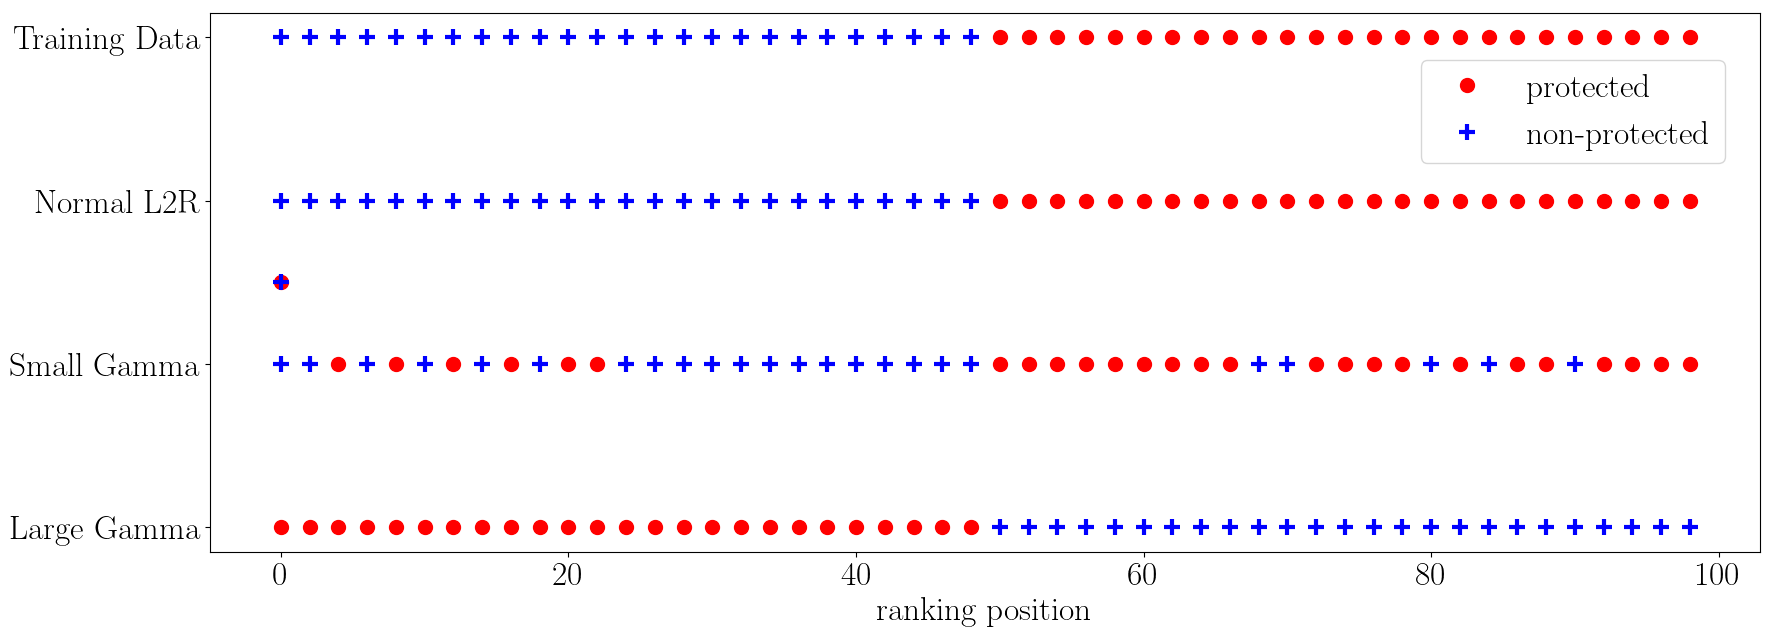
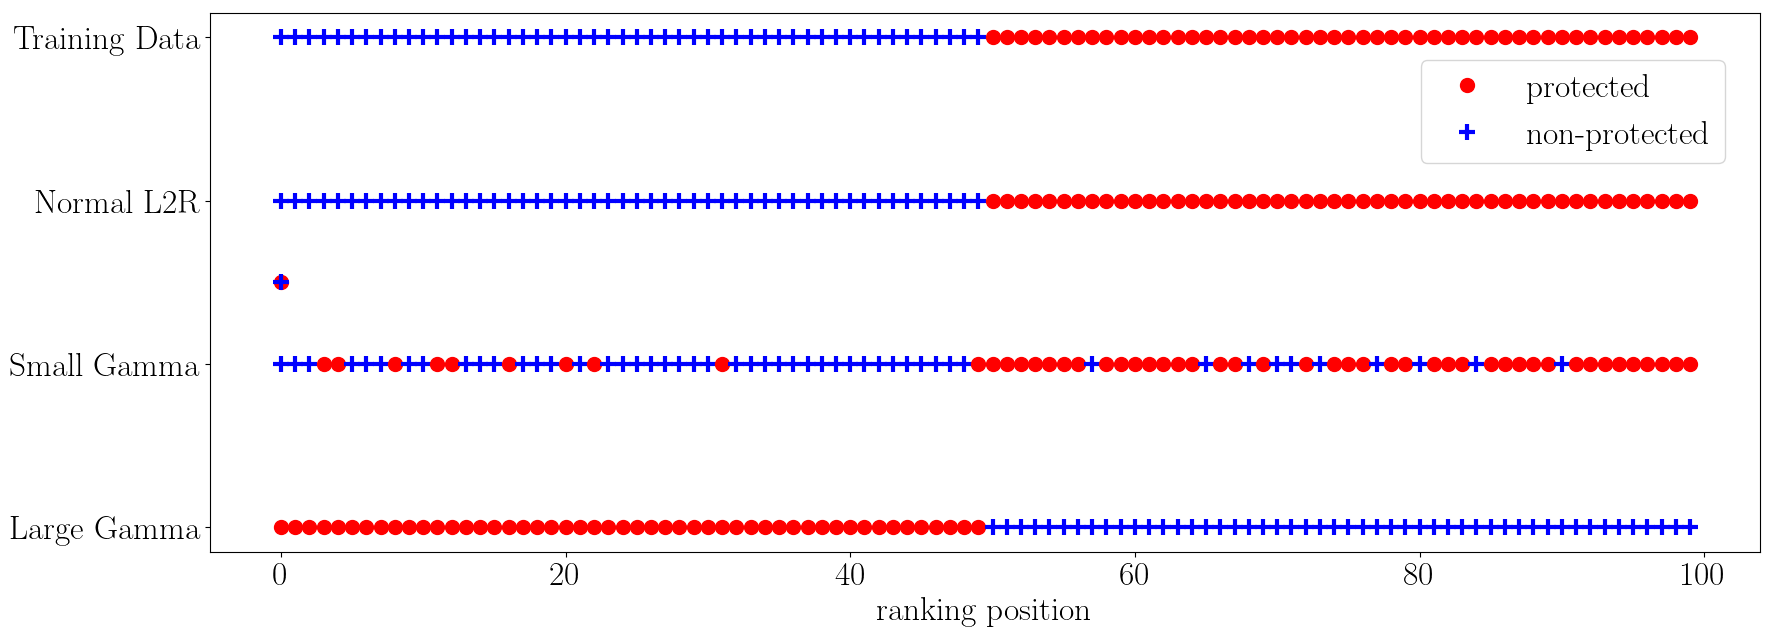
plots for synthetic datasets

diff --git a/src/visualization/run_synthetic_visualization.py b/src/visualization/run_synthetic_visualization.py
@@ -31,4 +31,10 @@ input_file3 = '../../octave-src/sample/synthetic_score_gender/top_male_bottom_fe
 input_file4 = '../../octave-src/sample/synthetic_score_gender/top_male_bottom_female/sample_test_data_scoreAndGender_separated_GAMMA_LARGE.txt.pred'
 output_file = '../../plots/synthetic/separated/top_male_bottom_female/result_plots/uniform_distribution/uniform_male_top_rankings_group_property_only.png'
 
-pltres.plot_rankings(input_file1, input_file2, input_file3, input_file4, output_file, 100, 2)
+input_file1 = '../../octave-src/sample/synthetic_score_gender/distribution_based/sample_train_data_scoreAndGender_separated.txt'
+input_file2 = '../../octave-src/sample/synthetic_score_gender/distribution_based/sample_test_data_scoreAndGender_separated_GAMMA_ZERO.txt.pred'
+input_file3 = '../../octave-src/sample/synthetic_score_gender/distribution_based/sample_test_data_scoreAndGender_separated_GAMMA_MEDIUM.txt.pred'
+input_file4 = '../../octave-src/sample/synthetic_score_gender/distribution_based/sample_test_data_scoreAndGender_separated_GAMMA_LARGE.txt.pred'
+output_file = '../../plots/synthetic/separated/top_male_bottom_female/result_plots/uniform_distribution/uniform_male_top_rankings_group_property_only.png'
+
+pltres.plot_rankings(input_file1, input_file2, input_file3, input_file4, output_file, 100, 1)

diff --git a/src/visualization/plot_rankings_only_protection_status.py b/src/visualization/plot_rankings_only_protection_status.py
@@ -23,7 +23,7 @@ def plot_rankings(input_file1, input_file2, input_file3, input_file4, output_fil
 
     f, ax = plt.subplots(figsize=(20, 7))
 
-    # Generate dummy info for plot handles "h"
+    # Generate dummy info for plot_ChileDataset handles "h"
     red_circle, = plt.plot(0, 1.75, 'ro', ms=10, label="protected")
     blue_plus, = plt.plot(0, 1.75, 'b+', ms=12, mew=3, label="non-protected");
 
